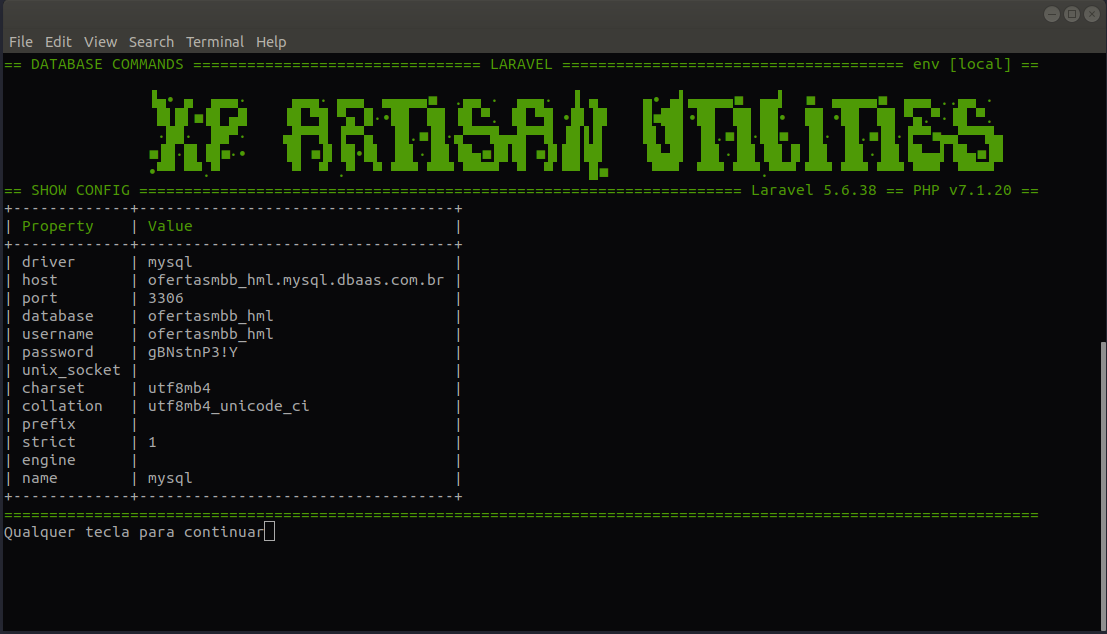
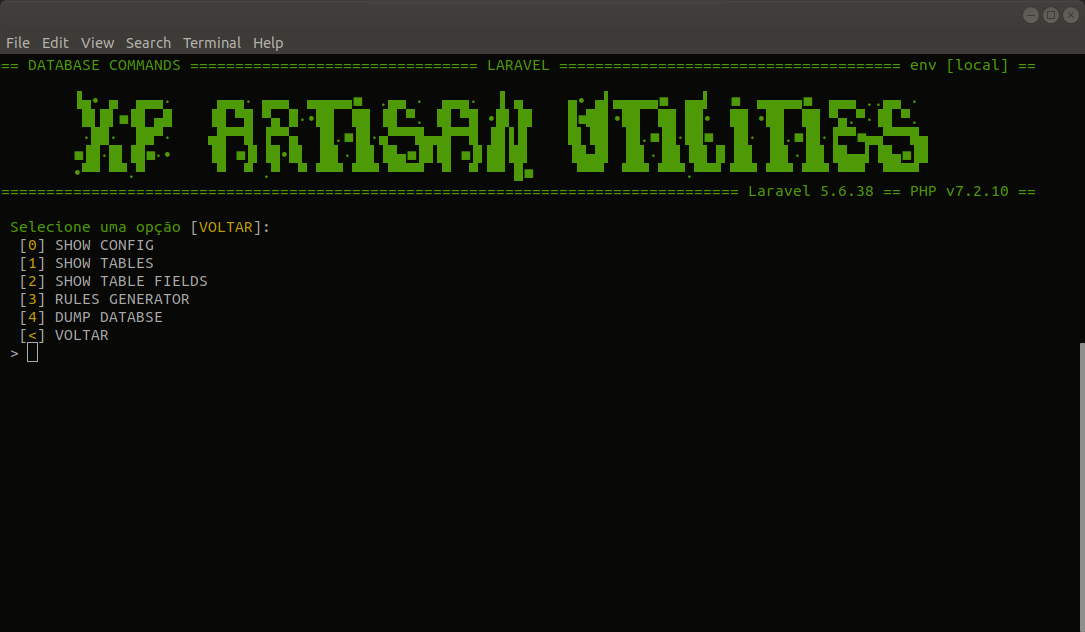
- Ajust print array; - Update screenshot.

diff --git a/src/LaravelCommands.php b/src/LaravelCommands.php
@@ -96,7 +96,7 @@ class LaravelCommands extends Command
 		return max($lengths);
 	}
 
-	private function printAssocArrayToTable($p_array)
+	private function printAssocArrayToList($p_array)
 	{
 		$keys       = array_keys($p_array);
 		$lengths    = array_map('strlen', $keys);
@@ -104,7 +104,7 @@ class LaravelCommands extends Command
 
 		foreach ($p_array as $key => $value)
 		{
-			$line = sprintf('%s%s', str_pad($key, $max_length, '.'), $value);
+			$line = sprintf('%s%s', str_pad($key.' ', $max_length, '.'), $value);
 			$this->info($line);
 		}
 	}
@@ -521,18 +521,19 @@ class LaravelCommands extends Command
 				return $this->printDatabaseMenu();
 			break;
 			case 'SHOW TABLE FIELDS':
-				$this->printLogo($caption, 'GET FIELD NAMES');
 
 				$tables_options = $this->printTables();
 				$table          = $this->anticipate('Table', $tables_options);
 				$append_comment = $this->confirm('APPEND FIELD COMENT?', true);
 
+				$this->printLogo($caption, 'SHOW TABLE FIELDS');
+				
 				$fields = $this->__getFieldNames($table, $append_comment);
 
 				$this->printLine('COLUMNS OF ' . strtoupper($table) );
 				if ($append_comment)
 				{
-					print_r($fields);
+					$this->printAssocArrayToList($fields);
 				}
 				else
 				{
@@ -658,7 +659,7 @@ class LaravelCommands extends Command
 			];
 
 			$this->printLogo($caption, 'DUMP DATABASE');
-			$this->printAssocArrayToTable($sconf);
+			$this->printAssocArrayToList($sconf);
 			if (!$this->confirm('Execute Dump ?'))
 			{
 				$this->waitKey();
